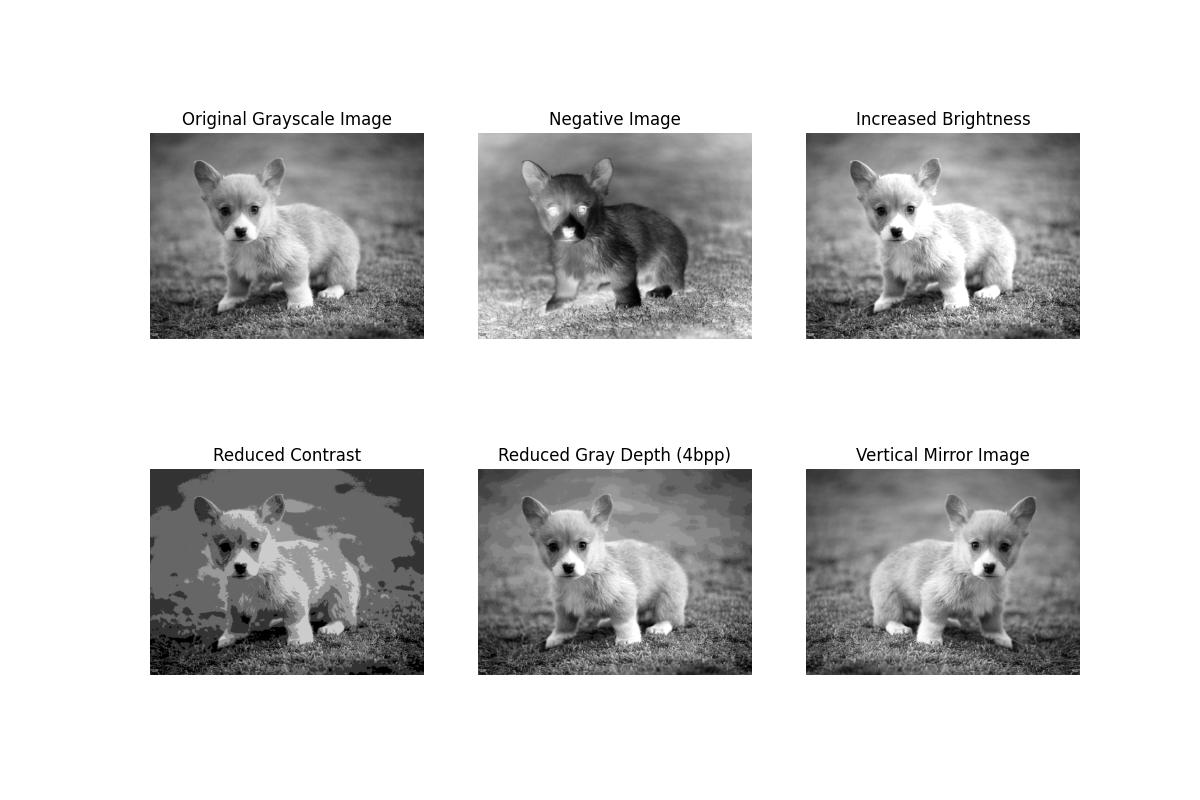
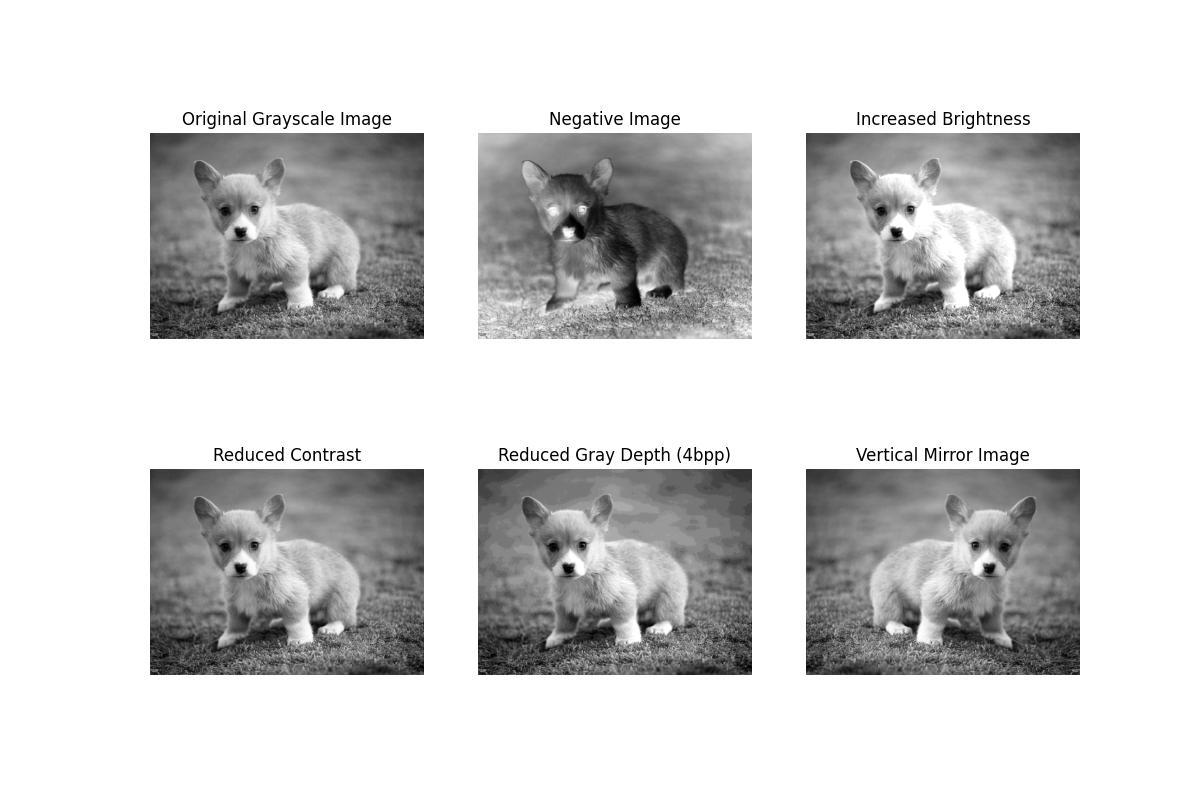
update

Changed region(s): [[0.1233, 0.5625, 0.37, 0.8438], [0.1542, 0.5625, 0.185, 0.5938]]

diff --git a/210279A_Code.py b/210279A_Code.py
@@ -58,7 +58,7 @@ increased_brightness_image = increase_brightness(gray_image)
 
 
 # Reduce Contrast (Gray levels between 125 and 175)
-def reduce_contrast(image, min_gray=10, max_gray=15):
+def reduce_contrast(image, min_gray=125, max_gray=175):
     height, width = image.shape  # assuming image is a grayscale 2D array
     reduced_contrast_image = np.zeros((height, width), dtype=np.uint8)
 
